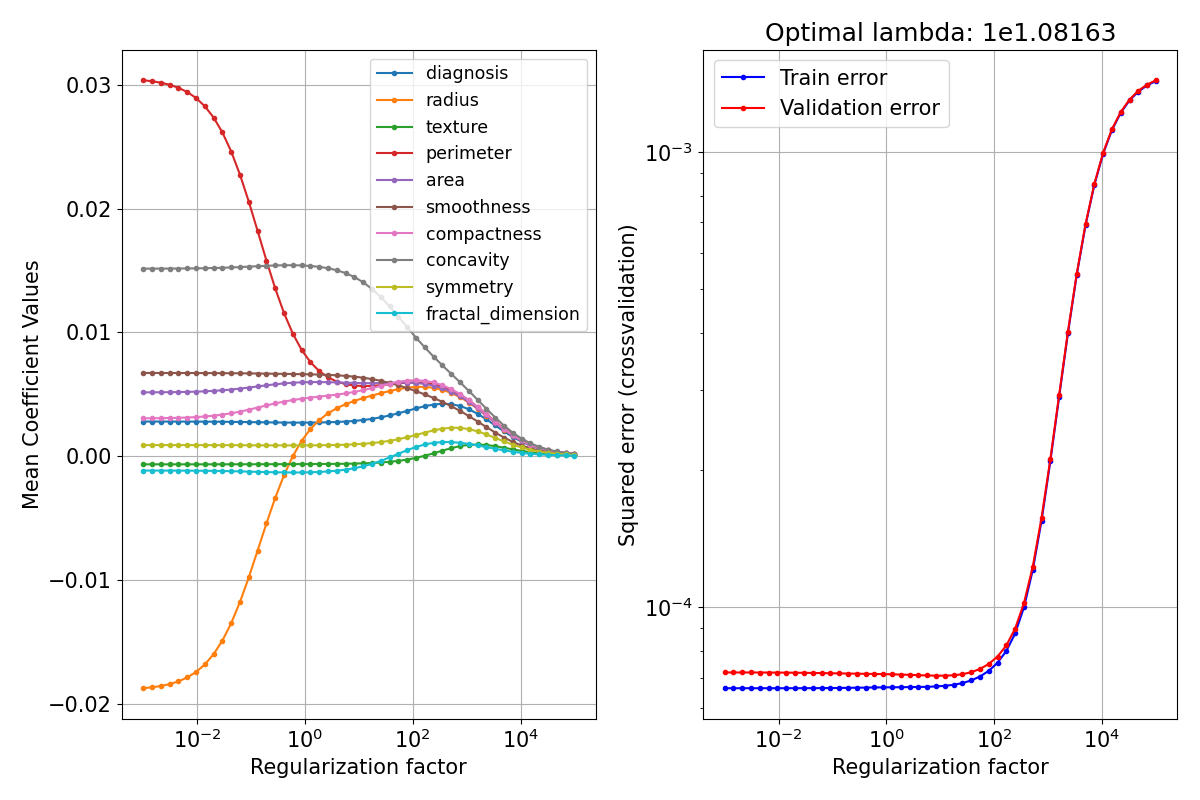
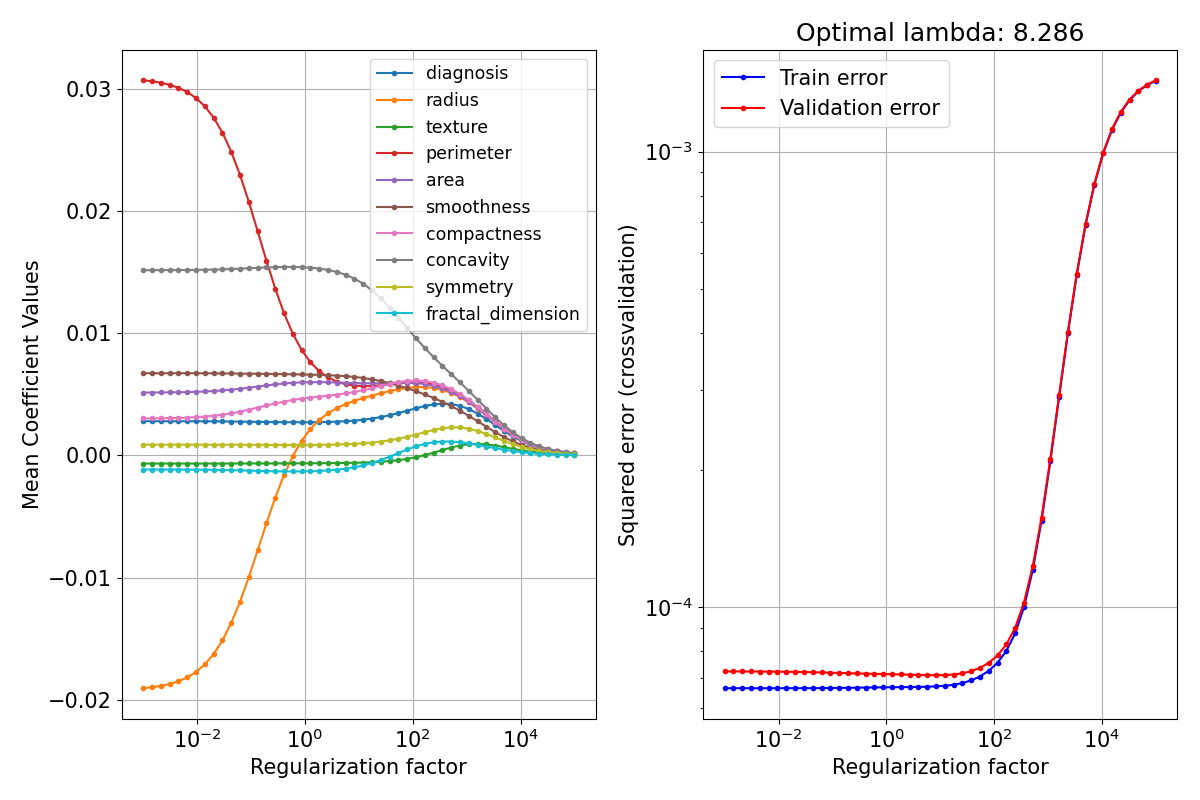
Add figures and update title format in report_2_regression_linear.py

diff --git a/report_2_regression_linear.py b/report_2_regression_linear.py
@@ -44,7 +44,7 @@ legend(attributeNames[1:], loc='best', fontsize="small")
 grid()
 
 subplot(1,2,2)
-title('Optimal lambda: 1e{:.5f}'.format(np.log10(opt_lambda)))
+title(f'Optimal lambda: {opt_lambda:.3f}')
 loglog(lambdas, train_err_vs_lambda.T,'b.-',lambdas, test_err_vs_lambda.T,'r.-')
 xlabel('Regularization factor')
 ylabel('Squared error (crossvalidation)')
@@ -58,7 +58,7 @@ lambdas2 = lambdas[best_lambdas_idx[0][0]-10:best_lambdas_idx[0][0]+10]
 train_err_vs_lambda2 = train_err_vs_lambda[best_lambdas_idx[0][0]-10:best_lambdas_idx[0][0]+10]
 test_err_vs_lambda2 = test_err_vs_lambda[best_lambdas_idx[0][0]-10:best_lambdas_idx[0][0]+10]
 
-title('Optimal lambda: 1e{:.5f}'.format(np.log10(opt_lambda)))
+title(f'Optimal lambda: {opt_lambda:.3f}')
 loglog(lambdas2, train_err_vs_lambda2.T,'b.-',lambdas2, test_err_vs_lambda2.T,'r.-')
 xlabel('Regularization factor')
 ylabel('Squared error (crossvalidation)')
@@ -66,6 +66,7 @@ legend(['Train error','Validation error'])
 grid()
 show()
 
+w_list = []
 CV = model_selection.KFold(K, shuffle=True)
 for train_index, test_index in CV.split(X,y):
     X_train = X[train_index]
@@ -77,8 +78,12 @@ for train_index, test_index in CV.split(X,y):
     lambdaI = opt_lambda * np.eye(M)
     lambdaI[0,0] = 0 # remove bias regularization
     w = np.linalg.solve(XtX+lambdaI,Xty).squeeze()
+    w_list.append(w)
     predicted_y = X_test @ w
     # print("Test error: ", np.square(y_test.squeeze() - predicted_y).sum()/y_test.shape[0])        
+
+# mean of weights
+w = np.mean(w_list, axis=0)
 
 # plt.figure(figsize=(12,8))
 # plt.plot(y_test, 'o-', label='True value')
